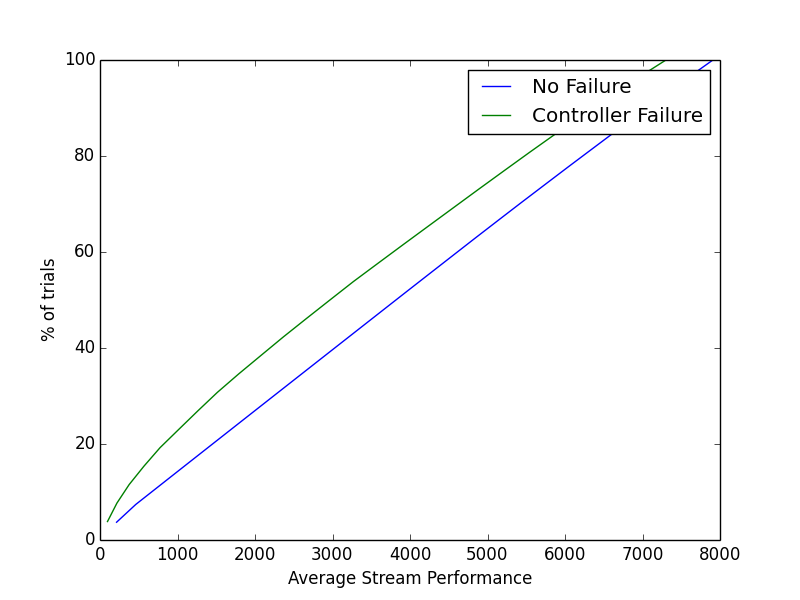
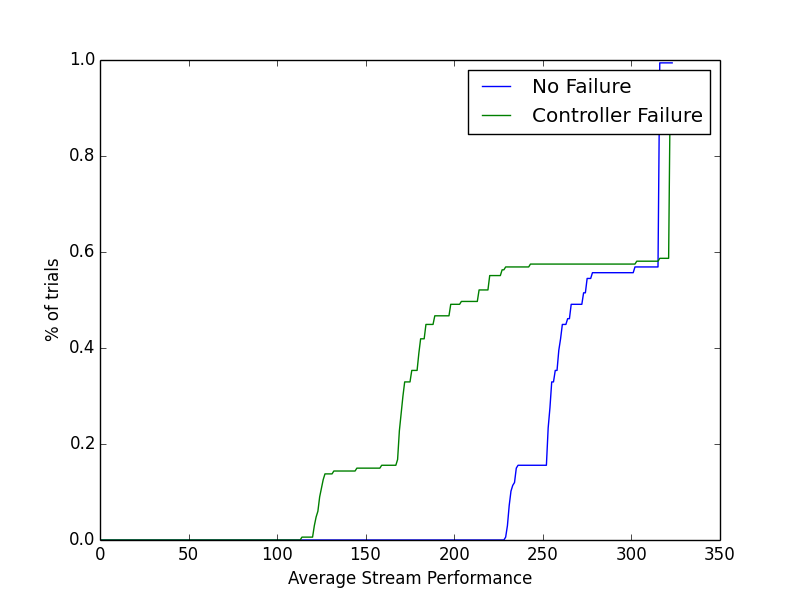
updated controller failure graph

diff --git a/decision/plots/controller_failed.py b/decision/plots/controller_failed.py
@@ -3,8 +3,18 @@
 from  pylab import *
 import matplotlib.pyplot as plt
 import datetime
+from bisect import bisect_left
 
-c = open('controller_failed_abbr').read().split('\n')[:-1]
+class discrete_cdf:
+    def __init__(self, data):
+        self._data = data # must be sorted
+        self._data_len = float(len(data))
+
+    def __call__(self, point):
+        return (len(self._data[:bisect_left(self._data, point)]) / 
+                self._data_len)
+
+c = open('controller_failed_long_abbr').read().split('\n')[:-1]
 
 control = []
 failed = []
@@ -19,25 +29,28 @@ control = [l for l in control if l != 0]
 failed = [l for l in failed if l != 0]
 
 control = sorted(control)
+control = [int(l) for l in control]
 failed = sorted(failed)
+failed = [int(l) for l in failed]
 
-controlcdf = [control[0]]
-for i in xrange(1,len(control)):
-    controlcdf.append(controlcdf[i-1] + control[i])
+cdf = discrete_cdf(control)
+xvalues = range(0, max(control))
+controlcdf = [cdf(point) for point in xvalues]
 
-failedcdf = [failed[0]]
-for i in xrange(1,len(failed)):
-    failedcdf.append(failedcdf[i-1] + failed[i])
+cdf2 = discrete_cdf(failed)
+xvalues2 = range(0, max(failed))
+failedcdf = [cdf2(point) for point in xvalues2]
 
-y1 = xrange(1,len(controlcdf)+1)
-y1 = [100*float(y)/len(controlcdf) for y in y1]
-y2 = xrange(1,len(failedcdf)+1)
-y2 = [100*float(y)/len(failedcdf) for y in y2]
+# controlpdf = control / sum(control)
+# failedpdf = failed / sum(failed)
+
+# controlcdf = np.cumsum(controlpdf)
+# failedcdf = np.cumsum(failedpdf)
 
 fig = plt.figure()
 ax = fig.add_subplot(1,1,1)
-ax.plot(controlcdf, y1, label='No Failure')
-ax.plot(failedcdf, y2, label='Controller Failure')
+ax.plot(xvalues, controlcdf, label='No Failure')
+ax.plot(xvalues2, failedcdf, label='Controller Failure')
 handles, labels = ax.get_legend_handles_labels()
 ax.legend(handles, labels)
 ax.set_xlabel('Average Stream Performance')
